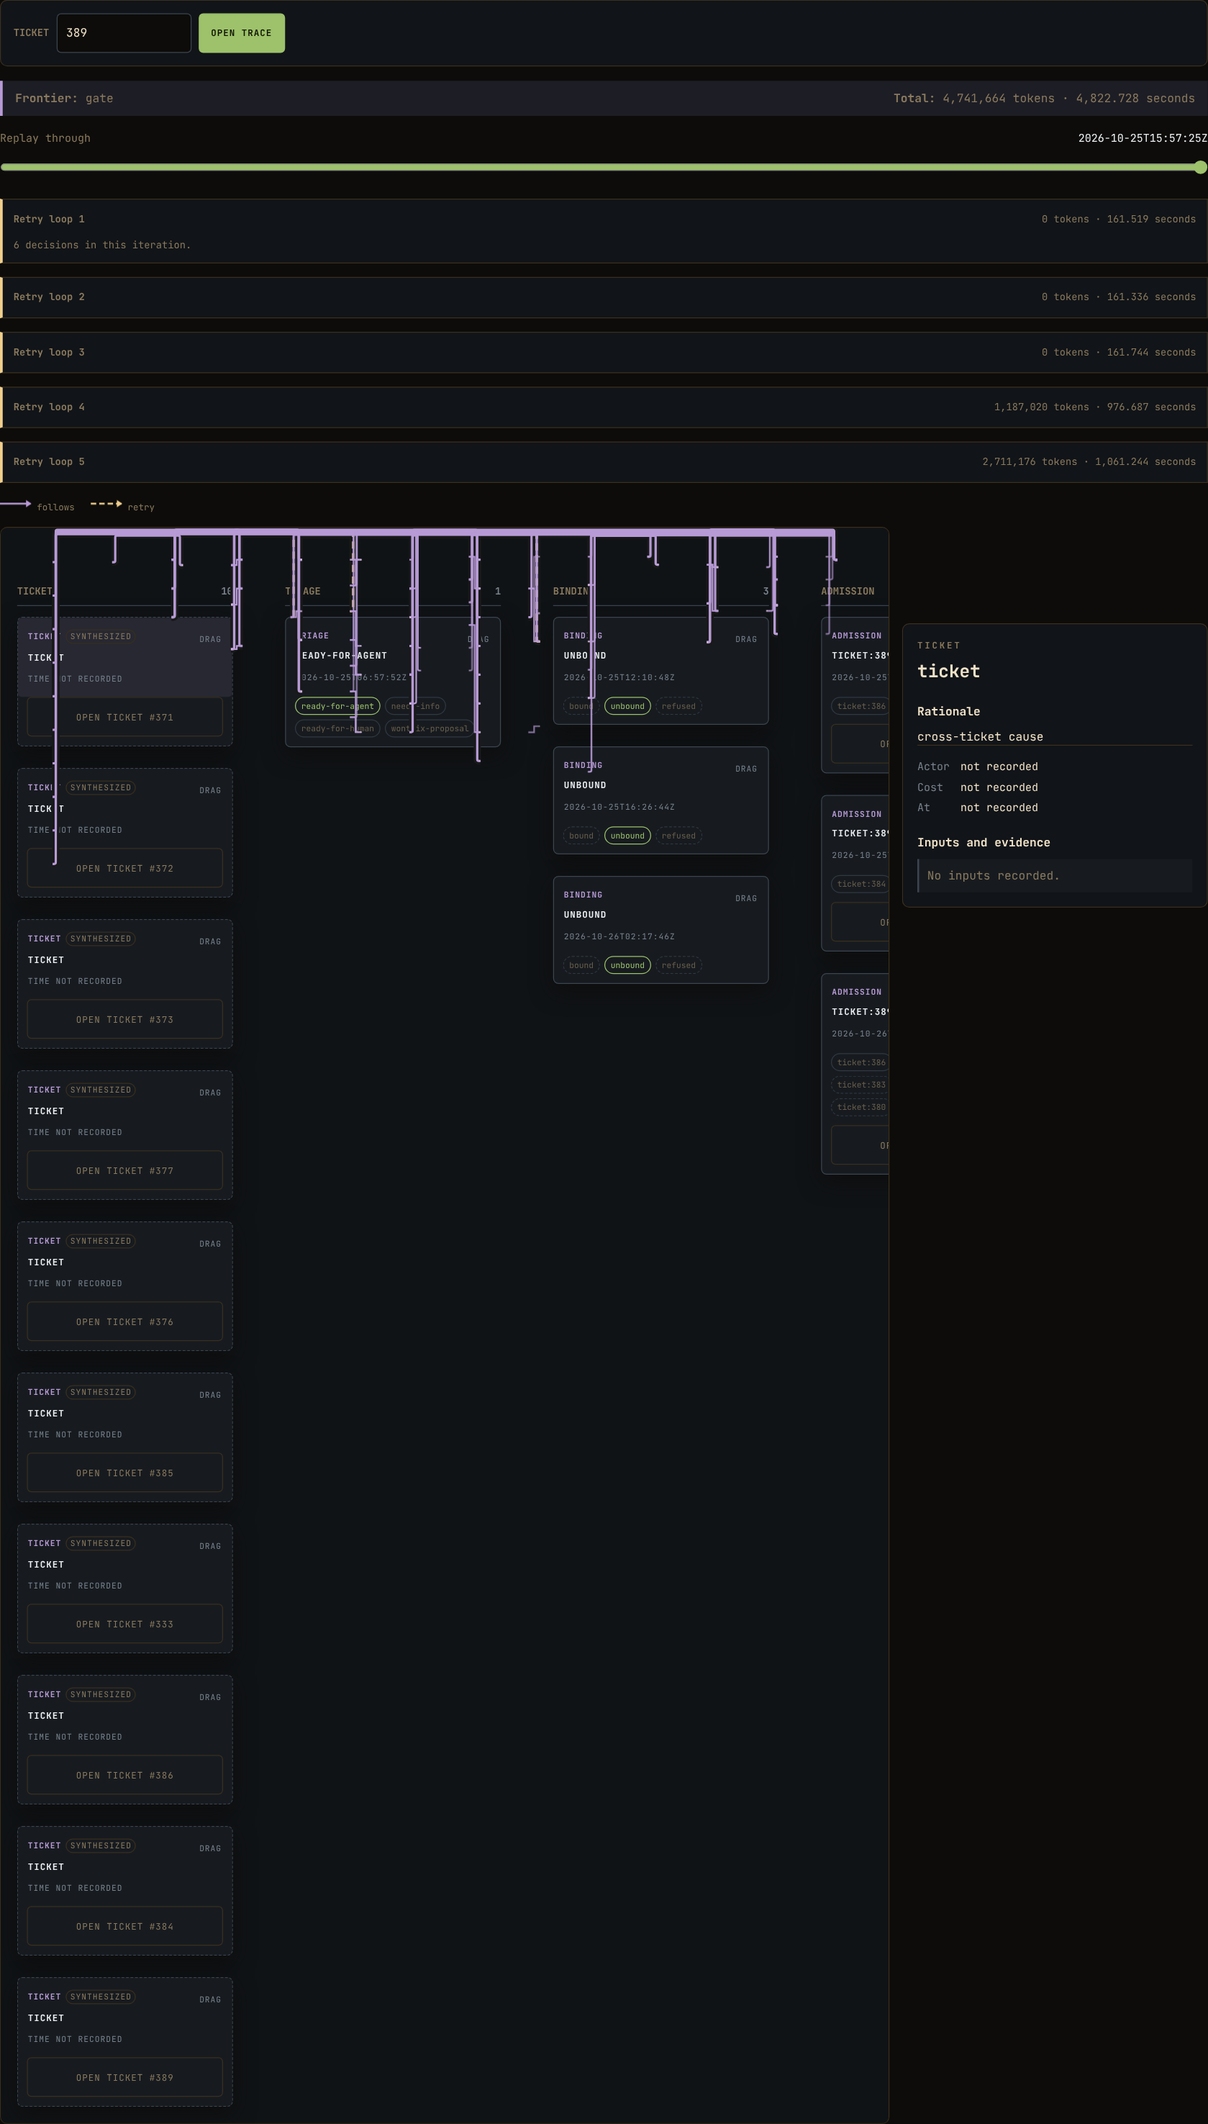
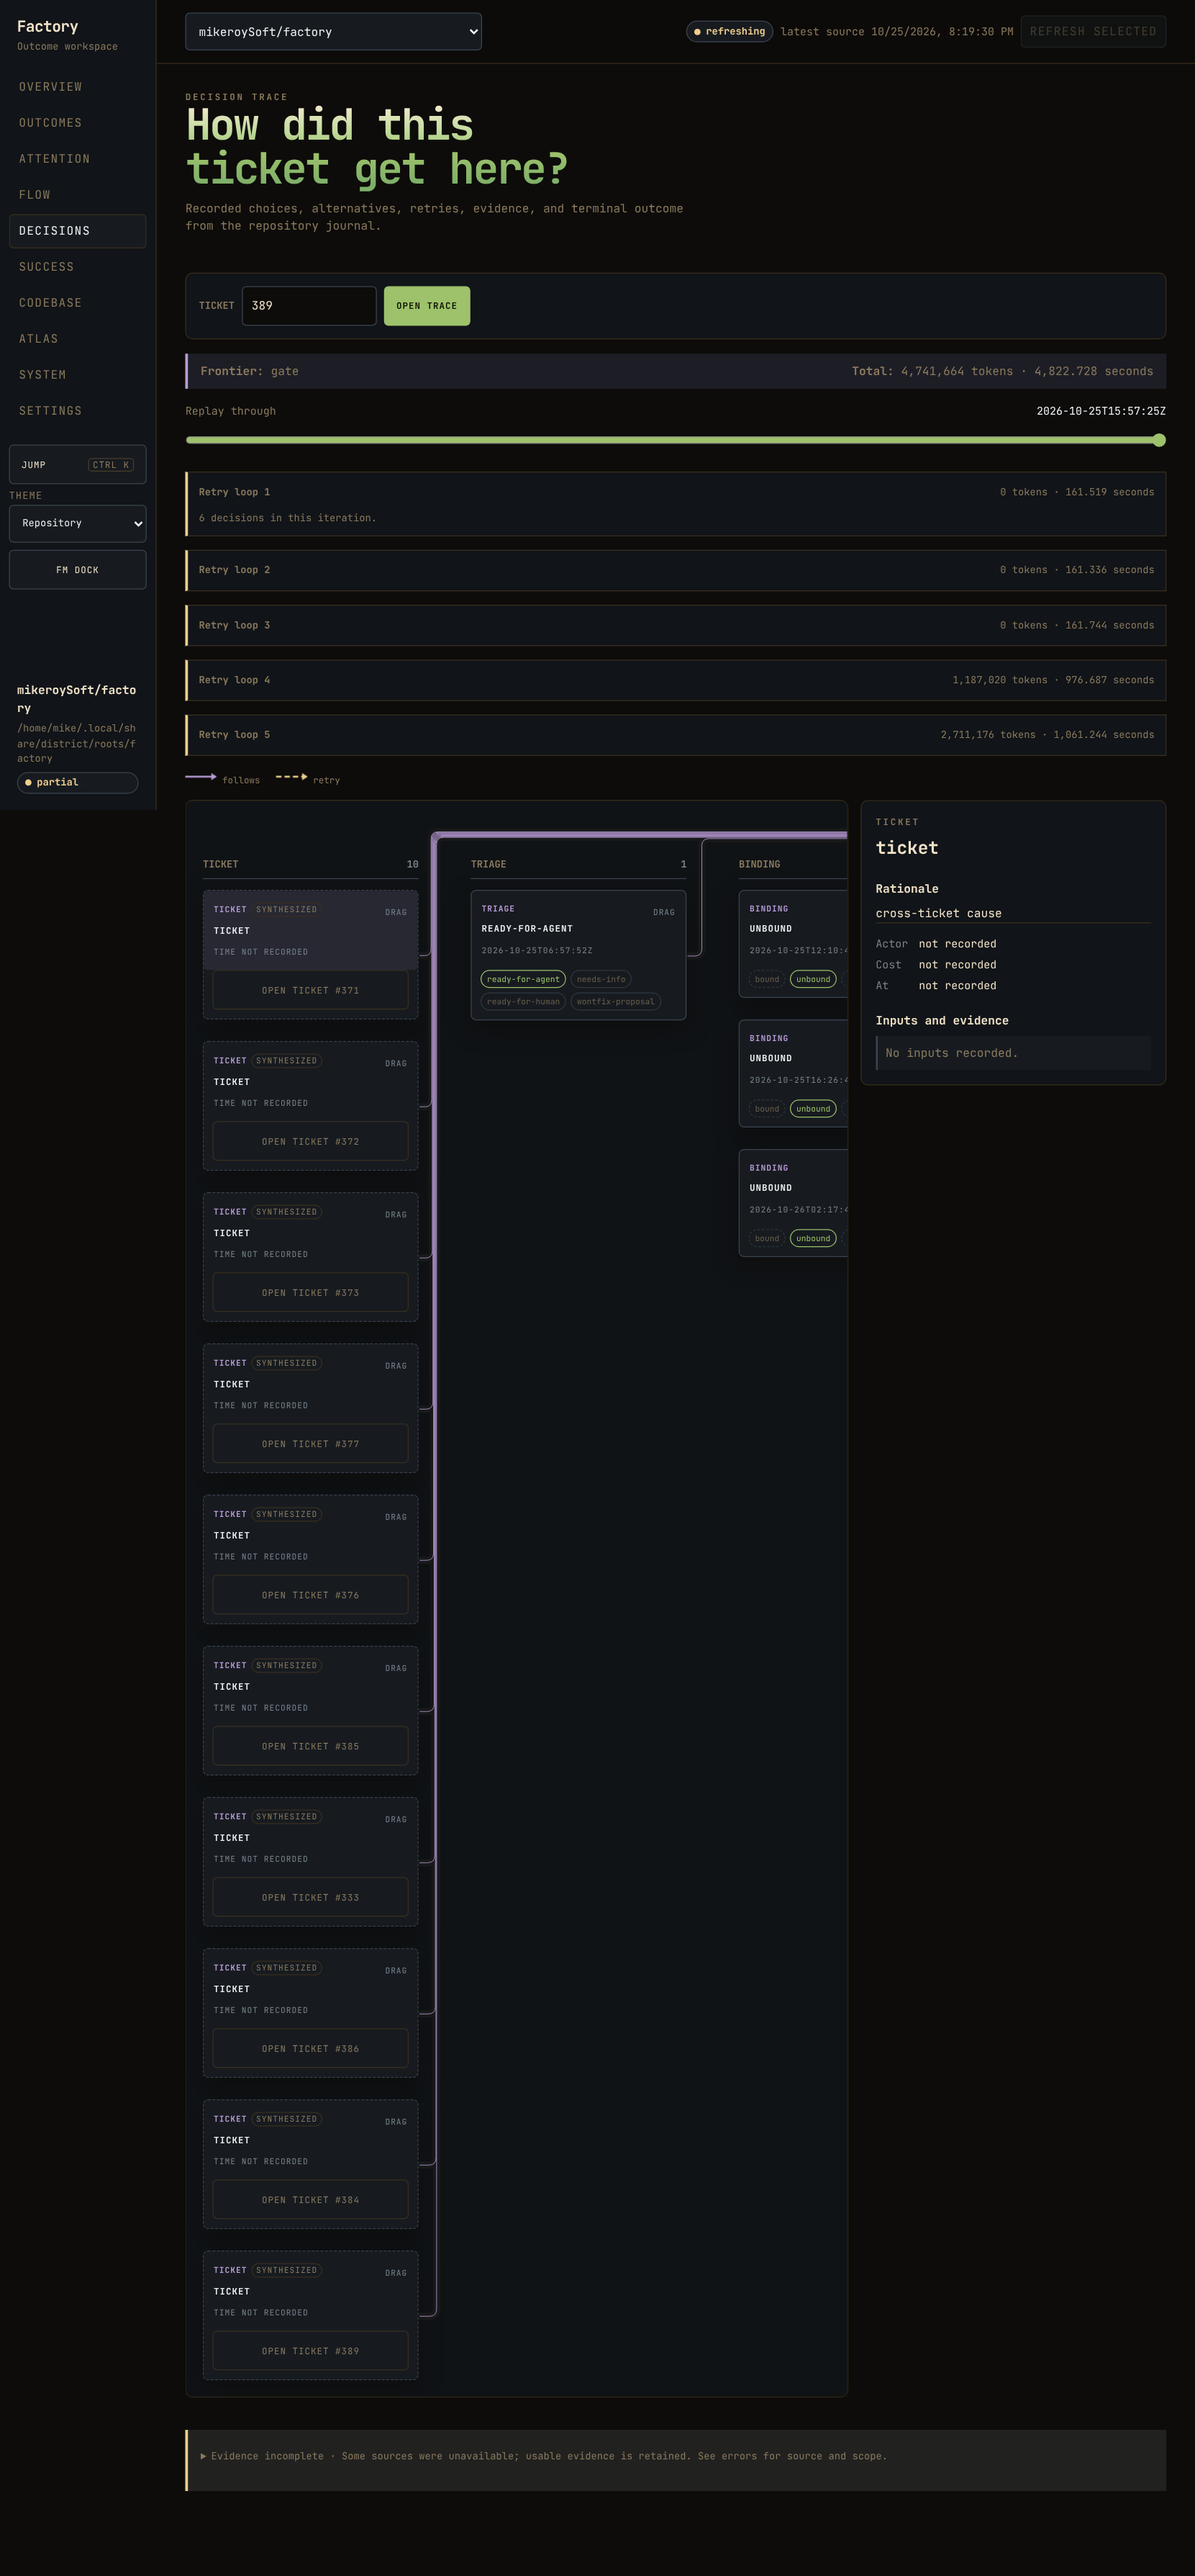
fix: keep trace bundles selectable

diff --git a/factory/workspace-trace.js b/factory/workspace-trace.js
@@ -324,6 +324,7 @@
       const width = board.scrollWidth, height = board.scrollHeight;
       svg.setAttribute('viewBox', `0 0 ${width} ${height}`);
       svg.setAttribute('width', width); svg.setAttribute('height', height);
+      svg.style.width = `${width}px`; svg.style.height = `${height}px`;
       const boardRect = board.getBoundingClientRect();
       const byId = new Map([...host.querySelectorAll('[data-trace-node]')].map(item => [item.dataset.traceNode, item]));
       const stageIndex = new Map([...host.querySelectorAll('[data-stage]')].map((item, index) => [item.dataset.stage, index]));
@@ -337,9 +338,13 @@
         groups.get(key).push(index);
       }
       const bundleInfo = new Map();
-      [...groups.values()].forEach((members, lane) => members.forEach((index, stripe) => {
-        const spacing = Math.min(2.4, 24 / members.length);
-        bundleInfo.set(index, {lane:lane % 4,stripe:(stripe - (members.length - 1) / 2) * spacing});
+      const bundleGroups = [...groups.values()];
+      const stripeCount = bundleGroups.reduce((total, members) => total + members.length, 0);
+      const spacing = Math.min(2.4, 44 / Math.max(1, stripeCount));
+      let track = 8 + spacing / 2;
+      bundleGroups.forEach(members => members.forEach((index, stripe) => {
+        bundleInfo.set(index, {spacing,stripe:(stripe - (members.length - 1) / 2) * spacing,track});
+        track += spacing;
       }));
       return edges.flatMap((edge, index) => {
         const source = byId.get(String(edge.from)), target = byId.get(String(edge.to));
@@ -356,16 +361,17 @@
           const track = 12 + index % 4 * 9;
           points = [{x:x(a.right),y:y1},{x:gutter,y:y1},{x:gutter,y:track},{x:gutter + 16,y:track},{x:gutter + 16,y:y2},{x:x(b.right),y:y2}];
         } else if (to < from) {
-          const track = 12 + (info?.lane ?? index % 4) * 9 + (info?.stripe || 0);
-          points = [{x:x(a.left),y:y1},{x:x(a.left) - 16,y:y1},{x:x(a.left) - 16,y:track},{x:x(b.right) + 16,y:track},{x:x(b.right) + 16,y:y2},{x:x(b.right),y:y2}];
+          const stripe = info?.stripe || 0;
+          const track = info?.track ?? 12 + index % 4 * 9;
+          points = [{x:x(a.left),y:y1},{x:x(a.left) - 16 + stripe,y:y1},{x:x(a.left) - 16 + stripe,y:track},{x:x(b.right) + 16 + stripe,y:track},{x:x(b.right) + 16 + stripe,y:y2},{x:x(b.right),y:y2}];
         } else if (info) {
-          const track = 12 + info.lane * 9 + info.stripe;
-          points = [{x:x(a.right),y:y1},{x:x(a.right) + 16,y:y1},{x:x(a.right) + 16,y:track},{x:x(b.left) - 16,y:track},{x:x(b.left) - 16,y:y2},{x:x(b.left),y:y2}];
+          const track = info.track;
+          points = [{x:x(a.right),y:y1},{x:x(a.right) + 16 + info.stripe,y:y1},{x:x(a.right) + 16 + info.stripe,y:track},{x:x(b.left) - 16 + info.stripe,y:track},{x:x(b.left) - 16 + info.stripe,y:y2},{x:x(b.left),y:y2}];
         } else {
           const gutter = (x(a.right) + x(b.left)) / 2;
           points = [{x:x(a.right),y:y1},{x:gutter,y:y1},{x:gutter,y:y1},{x:gutter,y:y2},{x:gutter,y:y2},{x:x(b.left),y:y2}];
         }
-        return [{index,edge,points,bundled:bundled.has(index),synthesized:target.classList.contains('is-synthesized')}];
+        return [{index,edge,points,bundled:bundled.has(index),spacing:info?.spacing,synthesized:target.classList.contains('is-synthesized')}];
       });
     };
     const applyHighlight = () => {
@@ -408,6 +414,7 @@
         let wire = wires.get(route.index);
         if (!wire) { wire = createWire(route); wires.set(route.index, wire); }
         wire.group.setAttribute('class', `trace-edge-group ${edgeType(route.edge.relation).className}${route.bundled ? ' is-bundled' : ''}${route.synthesized ? ' is-synthesized' : ''}`);
+        if (route.spacing) wire.group.style.setProperty('--trace-stripe-spacing', route.spacing);
         if (!wire.current || reduceMotion) {
           wire.current = route.points.map(point => ({...point}));
           updateWire(wire, wire.current);

diff --git a/factory/workspace.css b/factory/workspace.css
@@ -420,14 +420,15 @@ body[data-motion="on"]:not([data-hidden="true"]) .signal[data-status="refreshing
 .trace-legend-line.relation-unblocked-by { border-top-style: double; }
 .trace-layout { display: grid; grid-template-columns: minmax(0,1fr) minmax(280px,340px); gap: 14px; align-items: start; }
 .trace-board { position: relative; min-height: 360px; overflow: auto; border: 1px solid var(--line); border-radius: 8px; background: color-mix(in srgb,var(--surface) 84%,var(--bg)); }
-.trace-lines { position: absolute; z-index: 3; inset: 0; overflow: visible; pointer-events: none; }
+.trace-lines { position: absolute; z-index: 3; top: 0; left: 0; overflow: visible; pointer-events: none; }
 .trace-edge-group { color: var(--trace-color); transition: opacity 120ms ease; }
 .trace-edge, .trace-bundle-ribbon, .trace-edge-hit { fill: none; vector-effect: non-scaling-stroke; }
 .trace-edge { stroke: currentColor; stroke-width: 1.75; stroke-dasharray: var(--trace-dash); }
 .trace-arrow { fill: context-stroke; }
 .trace-edge-hit { pointer-events: stroke; stroke: transparent; stroke-width: 14; cursor: pointer; }
+.trace-edge-group.is-bundled .trace-edge-hit { stroke-width: var(--trace-stripe-spacing); }
 .trace-bundle-ribbon { stroke: color-mix(in srgb,var(--surface) 82%,var(--line)); stroke-width: 8; }
-.trace-edge-group.is-bundled .trace-edge { stroke-width: 2.5; }
+.trace-edge-group.is-bundled .trace-edge { stroke-width: var(--trace-stripe-spacing); }
 .trace-edge-group.is-synthesized { opacity: .72; }
 .trace-edge-label { opacity: 0; fill: var(--text); paint-order: stroke; stroke: var(--surface); stroke-width: 5px; stroke-linejoin: round; text-anchor: middle; font: 10px var(--mono); pointer-events: none; }
 .trace-edge-group.is-trace-active { z-index: 2; opacity: 1; filter: drop-shadow(0 0 4px color-mix(in srgb,var(--trace-color) 55%,transparent)); }
